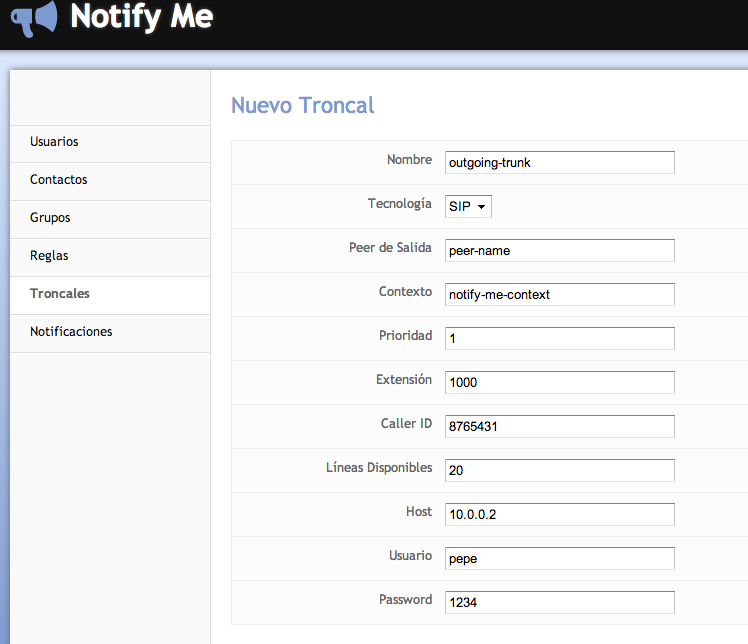
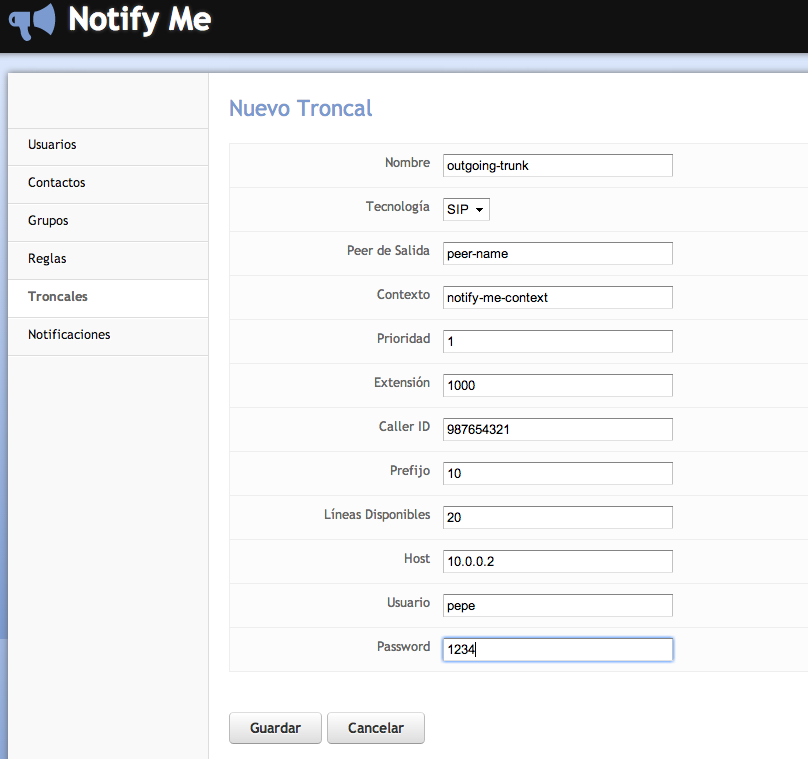
added support for prefixes outgoing trunks
now for each call the dialed contact will be {tech}/{prefix}{number}, prefix can be empty.

docs also updated

diff --git a/doc/system-administration-guide.md b/doc/system-administration-guide.md
@@ -96,6 +96,7 @@ The fields to be configured are:
 * `Priority:` the priority to place the call when connected, `1` in the example above
 * `Extension:` the extension to place the call when connected, `1000` in the example above
 * `Caller Id:` the caller id to display to the contact when placing the call
+* `Prefix:` prefix to add to the dialed number when placing the call on the line, can be empty
 * `Capacity:` how many simultaneous calls can be placed using this trunk
 * `Host:` the asterisk host name or ip address
 * `User:` the asterisk manager user, `pepe` in the example above
